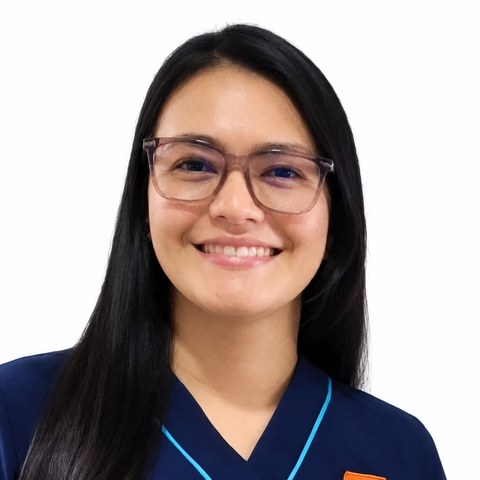
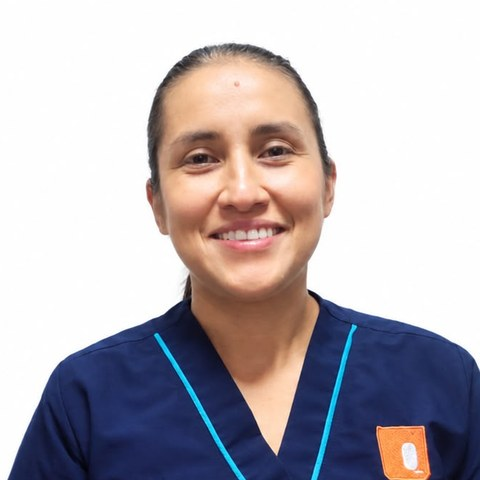
Intercambia las fotos de Yuliana y Angie
Claude-Session: https://claude.ai/code/session_01Naga49HoLdT85NfZSuZApQ

diff --git a/autoevaluaciones.html b/autoevaluaciones.html
@@ -134,8 +134,8 @@
           </div>
           <div class="ae-retratos" aria-hidden="true">
             <img class="ae-ret ae-ret--s" src="img/integrante-1-completa.jpg" alt="" width="480" height="480">
-            <img class="ae-ret ae-ret--y" src="img/integrante-2.jpg" alt="" width="480" height="480">
-            <img class="ae-ret ae-ret--a" src="img/integrante-3.jpg" alt="" width="480" height="480">
+            <img class="ae-ret ae-ret--y" src="img/integrante-2.jpg?v=2" alt="" width="480" height="480">
+            <img class="ae-ret ae-ret--a" src="img/integrante-3.jpg?v=2" alt="" width="480" height="480">
             <span class="ae-ficha ae-ficha--ok">✓</span>
             <span class="ae-ficha ae-ficha--mas">+</span>
           </div>
@@ -159,7 +159,7 @@
 
         <section class="ae-sec ae-persona ae-yuliana ae-persona--der ae-rev" id="yuliana" data-persona aria-labelledby="ae-h-yuliana">
           <div class="ae-lateral">
-            <div class="ae-foto"><img src="img/integrante-2.jpg" width="480" height="480" alt="Retrato de Yuliana" loading="lazy" decoding="async"></div>
+            <div class="ae-foto"><img src="img/integrante-2.jpg?v=2" width="480" height="480" alt="Retrato de Yuliana" loading="lazy" decoding="async"></div>
             <span class="ae-chip">Autoevaluación</span>
             <h2 id="ae-h-yuliana">Yuliana</h2>
             <p class="ae-lic">Licenciatura en<br>Educación Infantil</p>
@@ -175,7 +175,7 @@
 
         <section class="ae-sec ae-persona ae-angie ae-rev" id="angie" data-persona aria-labelledby="ae-h-angie">
           <div class="ae-lateral">
-            <div class="ae-foto"><img src="img/integrante-3.jpg" width="480" height="480" alt="Retrato de Angie" loading="lazy" decoding="async"></div>
+            <div class="ae-foto"><img src="img/integrante-3.jpg?v=2" width="480" height="480" alt="Retrato de Angie" loading="lazy" decoding="async"></div>
             <span class="ae-chip">Autoevaluación</span>
             <h2 id="ae-h-angie">Angie</h2>
             <p class="ae-lic">Licenciatura en<br>Educación Infantil</p>

diff --git a/index.html b/index.html
@@ -235,7 +235,7 @@
               <a class="in-per__top" href="quienes-somos" aria-label="Conocer a Yuliana en Quiénes somos">
                 <span class="in-per__signo" aria-hidden="true">÷</span>
                 <span class="in-per__tag" aria-hidden="true">Autora</span>
-                <span class="in-per__arco"><img src="img/integrante-2.jpg" width="480" height="480" alt="Yuliana" loading="lazy"></span>
+                <span class="in-per__arco"><img src="img/integrante-2.jpg?v=2" width="480" height="480" alt="Yuliana" loading="lazy"></span>
               </a>
               <div class="in-per__info">
                 <h3 class="in-per__nombre"><i aria-hidden="true"></i>Yuliana</h3>
@@ -249,7 +249,7 @@
               <a class="in-per__top" href="quienes-somos" aria-label="Conocer a Angie en Quiénes somos">
                 <span class="in-per__signo" aria-hidden="true">×</span>
                 <span class="in-per__tag" aria-hidden="true">Autora</span>
-                <span class="in-per__arco"><img src="img/integrante-3.jpg" width="480" height="480" alt="Angie" loading="lazy"></span>
+                <span class="in-per__arco"><img src="img/integrante-3.jpg?v=2" width="480" height="480" alt="Angie" loading="lazy"></span>
               </a>
               <div class="in-per__info">
                 <h3 class="in-per__nombre"><i aria-hidden="true"></i>Angie</h3>

diff --git a/quienes-somos.html b/quienes-somos.html
@@ -216,7 +216,7 @@
         <article class="qs-integrante qs-integrante--sol qs-rev qs-hover" data-integrante>
           <div class="qs-foto">
             <button class="qs-foto__boton" type="button" aria-label="Ver la presentación de Yuliana" aria-expanded="false" aria-controls="qs-detalle-2">
-              <img class="qs-foto__interno" src="img/integrante-2.jpg" width="480" height="480" alt="Yuliana Andrea Villada Osorio" loading="lazy">
+              <img class="qs-foto__interno" src="img/integrante-2.jpg?v=2" width="480" height="480" alt="Yuliana Andrea Villada Osorio" loading="lazy">
             </button>
           </div>
           <h3>Yuliana Andrea Villada Osorio</h3>
@@ -241,7 +241,7 @@
         <article class="qs-integrante qs-integrante--menta qs-rev qs-hover" data-integrante>
           <div class="qs-foto">
             <button class="qs-foto__boton" type="button" aria-label="Ver la presentación de Angie" aria-expanded="false" aria-controls="qs-detalle-3">
-              <img class="qs-foto__interno" src="img/integrante-3.jpg" width="480" height="480" alt="Angie Yiset Florez Coronado" loading="lazy">
+              <img class="qs-foto__interno" src="img/integrante-3.jpg?v=2" width="480" height="480" alt="Angie Yiset Florez Coronado" loading="lazy">
             </button>
           </div>
           <h3>Angie Yiset Florez Coronado</h3>
